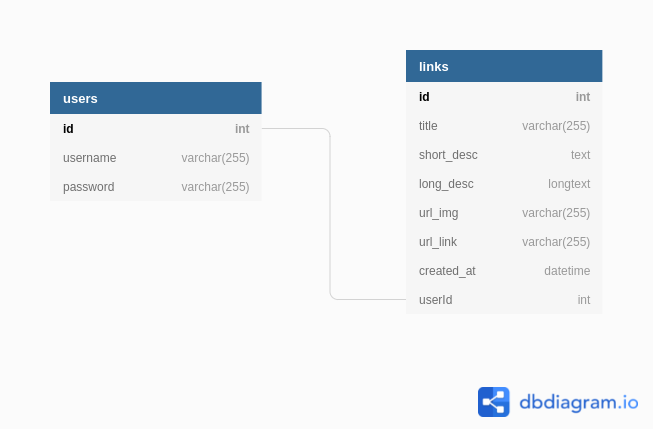
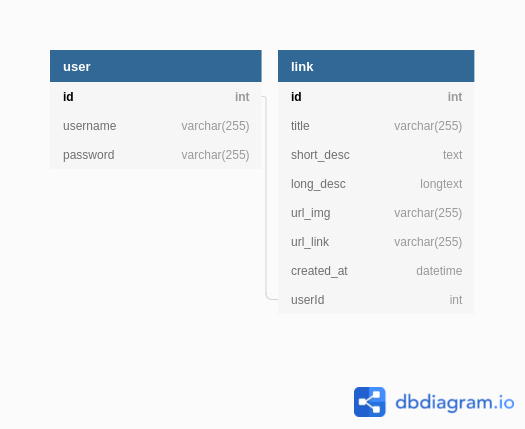
new version with tinyMVC V5

diff --git a/public/index.php b/public/index.php
@@ -1,7 +1,7 @@
 <?php
 
-use Entity\Links;
-use Entity\Users;
+use Entity\Link;
+use Entity\User;
 use ludk\Persistence\ORM;
 
 require __DIR__ . '/../vendor/autoload.php';
@@ -9,8 +9,8 @@ require __DIR__ . '/../vendor/autoload.php';
 session_start();
 
 $orm = new ORM(__DIR__ . '/../Resources');
-$linkRepo = $orm->getRepository(Links::class);
-$userRepo = $orm->getRepository(Users::class);
+$linkRepo = $orm->getRepository(Link::class);
+$userRepo = $orm->getRepository(User::class);
 
 $manager = $orm->getManager();
 
@@ -36,7 +36,7 @@ switch ($action) {
             if ($errorMsg) {
                 include "../templates/registerForm.php";
             } else {
-                $newUser = new Users();
+                $newUser = new User();
                 $newUser->username = $_POST['username'];
                 $newUser->password = $_POST['password'];
                 $manager->persist($newUser);
@@ -81,7 +81,7 @@ switch ($action) {
             if ($errorMsg) {
                 include "../templates/postForm.php";
             } else {
-                $newlink = new Links();
+                $newlink = new Link();
                 $newlink->title = $_POST['title'];
                 $newlink->shortDesc = $_POST['shortDesc'];
                 $newlink->longDesc = $_POST['longDesc'];

diff --git a/src/Entity/Link.php b/src/Entity/Link.php
@@ -2,10 +2,10 @@
 
 namespace Entity;
 
-use Entity\Users;
+use Entity\User;
 use ludk\Utils\Serializer;
 
-class Links
+class Link
 {
     public $id;
     public $title;
@@ -14,7 +14,7 @@ class Links
     public $urlImage;
     public $urlLink;
     public $createdAt;
-    public Users $userId;
+    public User $userId;
     use Serializer;
 }
 

diff --git a/src/Entity/User.php b/src/Entity/User.php
@@ -4,7 +4,7 @@ namespace Entity;
 
 use ludk\Utils\Serializer;
 
-class Users
+class User
 {
     public $id;
     public $username;
